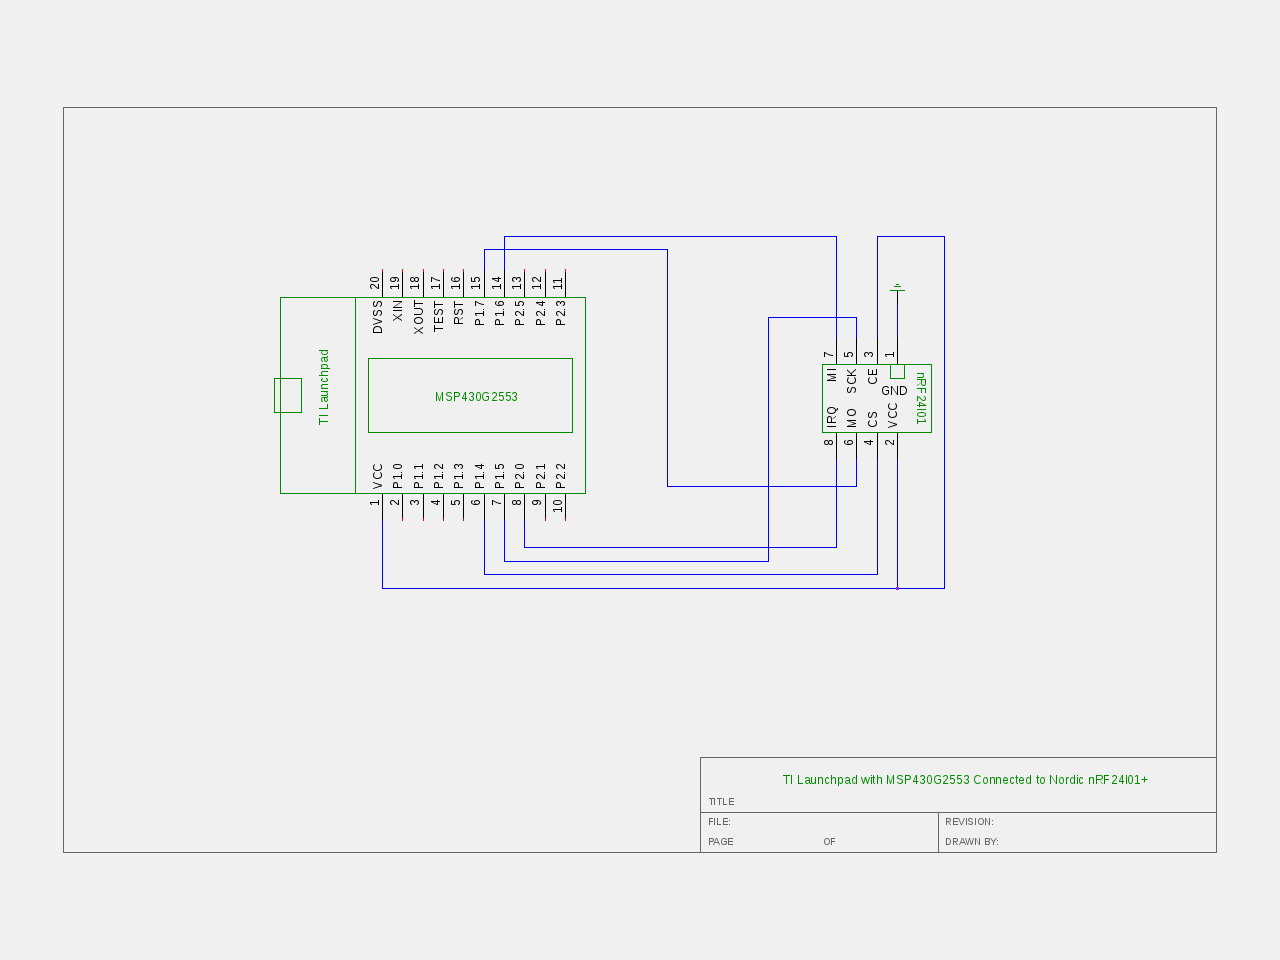
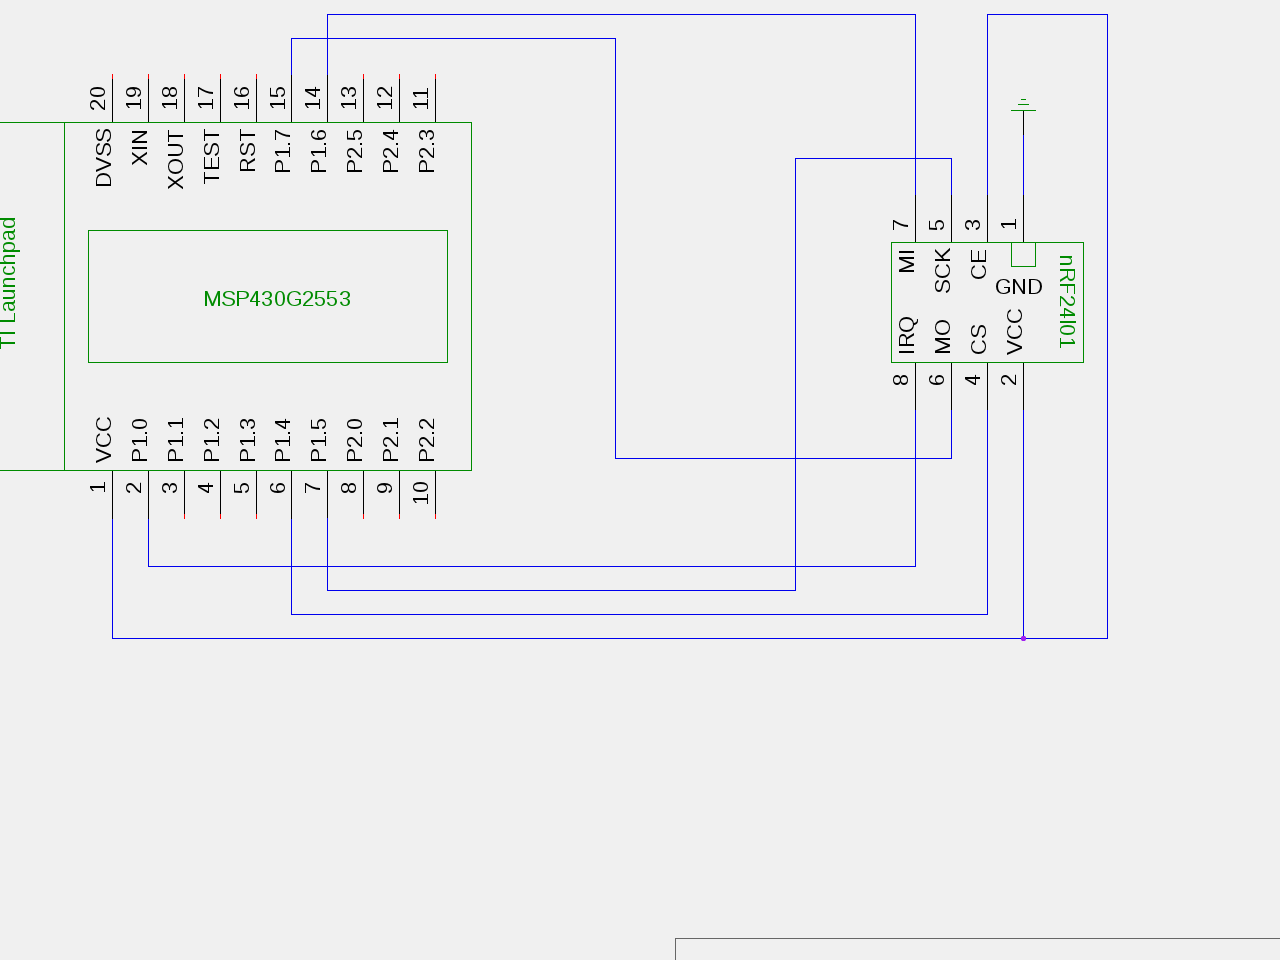
Changed EXTI from P2.0 to P1.0

diff --git a/tests/nrf-client-esbpl-exti/src/main.c b/tests/nrf-client-esbpl-exti/src/main.c
@@ -76,9 +76,9 @@ void exti_init()
  	 * Configure P2.0 as input, with IRQ triggered on falling edge
  	 */
 
-    P2IES |=  BIT0;      // Hi/Lo edge interrupt
-    P2IFG &= ~BIT0;      // Clear flag before enabling interrupt
-    P2IE  |=  BIT0;      // Enable interrupt
+    P1IES |=  BIT0;      // Hi/Lo edge interrupt
+    P1IFG &= ~BIT0;      // Clear flag before enabling interrupt
+    P1IE  |=  BIT0;      // Enable interrupt
 
 	__bis_SR_register(GIE);
 #else
@@ -121,9 +121,9 @@ void nrf_configure_esbpl_rx(void)
 }
 
 #ifdef MSP430
-interrupt(PORT2_VECTOR) PORT2_ISR(void)
+interrupt(PORT1_VECTOR) PORT1_ISR(void)
 {
-    P2IFG &= ~BIT0;                 // Clear interrupt flag
+    P1IFG &= ~BIT0;                 // Clear interrupt flag
 #else
 void exti2_isr(void)
 {
